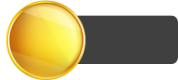
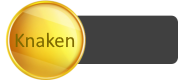
dingetjes toegevoegd

Changed region(s): [[0.0843, 0.4, 0.4213, 0.6]]

diff --git a/files/script.js b/files/script.js
@@ -112,7 +112,7 @@ ctx.closePath()
 
 ctx.beginPath()
 ctx.font = "30px Arial";
-ctx.fillStyle = "white";
+ctx.fillStyle = "green";
 ctx.fillText("E for English", canvas.width / 2 + 50, 80)
 ctx.closePath()
 
@@ -138,7 +138,7 @@ function draw() {
     checkInteraction() 
     drawBlock()
     metronome()
-    
+
 }
 
 function drawBlock() {   
@@ -405,10 +405,24 @@ function drawBackgroundMisc() {
 
     var mountain = new Image()
     mountain.src = "./files/berg.png"
+    
+    var boom = new Image()
+    boom.src = "./files/bomen.png"
+
 
     if(!tripmode){
         ctx.beginPath()
         ctx.drawImage(mountain,0,0)
+        ctx.closePath()
+
+        if(level/2 == Math.round(level/2)) {
+            boomx = -200
+        } else {
+            boomx = 0
+        }
+
+        ctx.beginPath()
+        ctx.drawImage(boom,boomx,floor.y - 200)
         ctx.closePath()
     }
     
@@ -586,8 +600,9 @@ document.addEventListener("keydown", function(e) {
                     downDown = true
                 } else {
                     if(e.key == " ") {
-
+                        
                         if(alreadyShot) return;
+                
                         alreadyShot = true
                         shot = false
                         if(bullets[0]) {

diff --git a/index.html b/index.html
@@ -1,6 +1,6 @@
 <html>
 <head>
-<title>Leuk!</title>
+<title>Jelmer's adventure!</title>
 <style>
 canvas {
     display: block;
@@ -34,8 +34,6 @@ canvas {
 <body>
 <canvas id="mycanvas" width="960" height="480"></canvas>
 <div id="butdiv"><button id="jelmerButton" onclick="setJelmer()">Jelmer</button><button id="tobinButton" onclick="setTobin()">Tobin ($1000)</button><button id="samButton" onclick="setSam()">Sam ($1000)</button><button id="pascalButton" onclick="setPascal()">Godscal ($2500)</button></div>
-
-
 
 <script src="./files/script.js"></script>
 </body>
